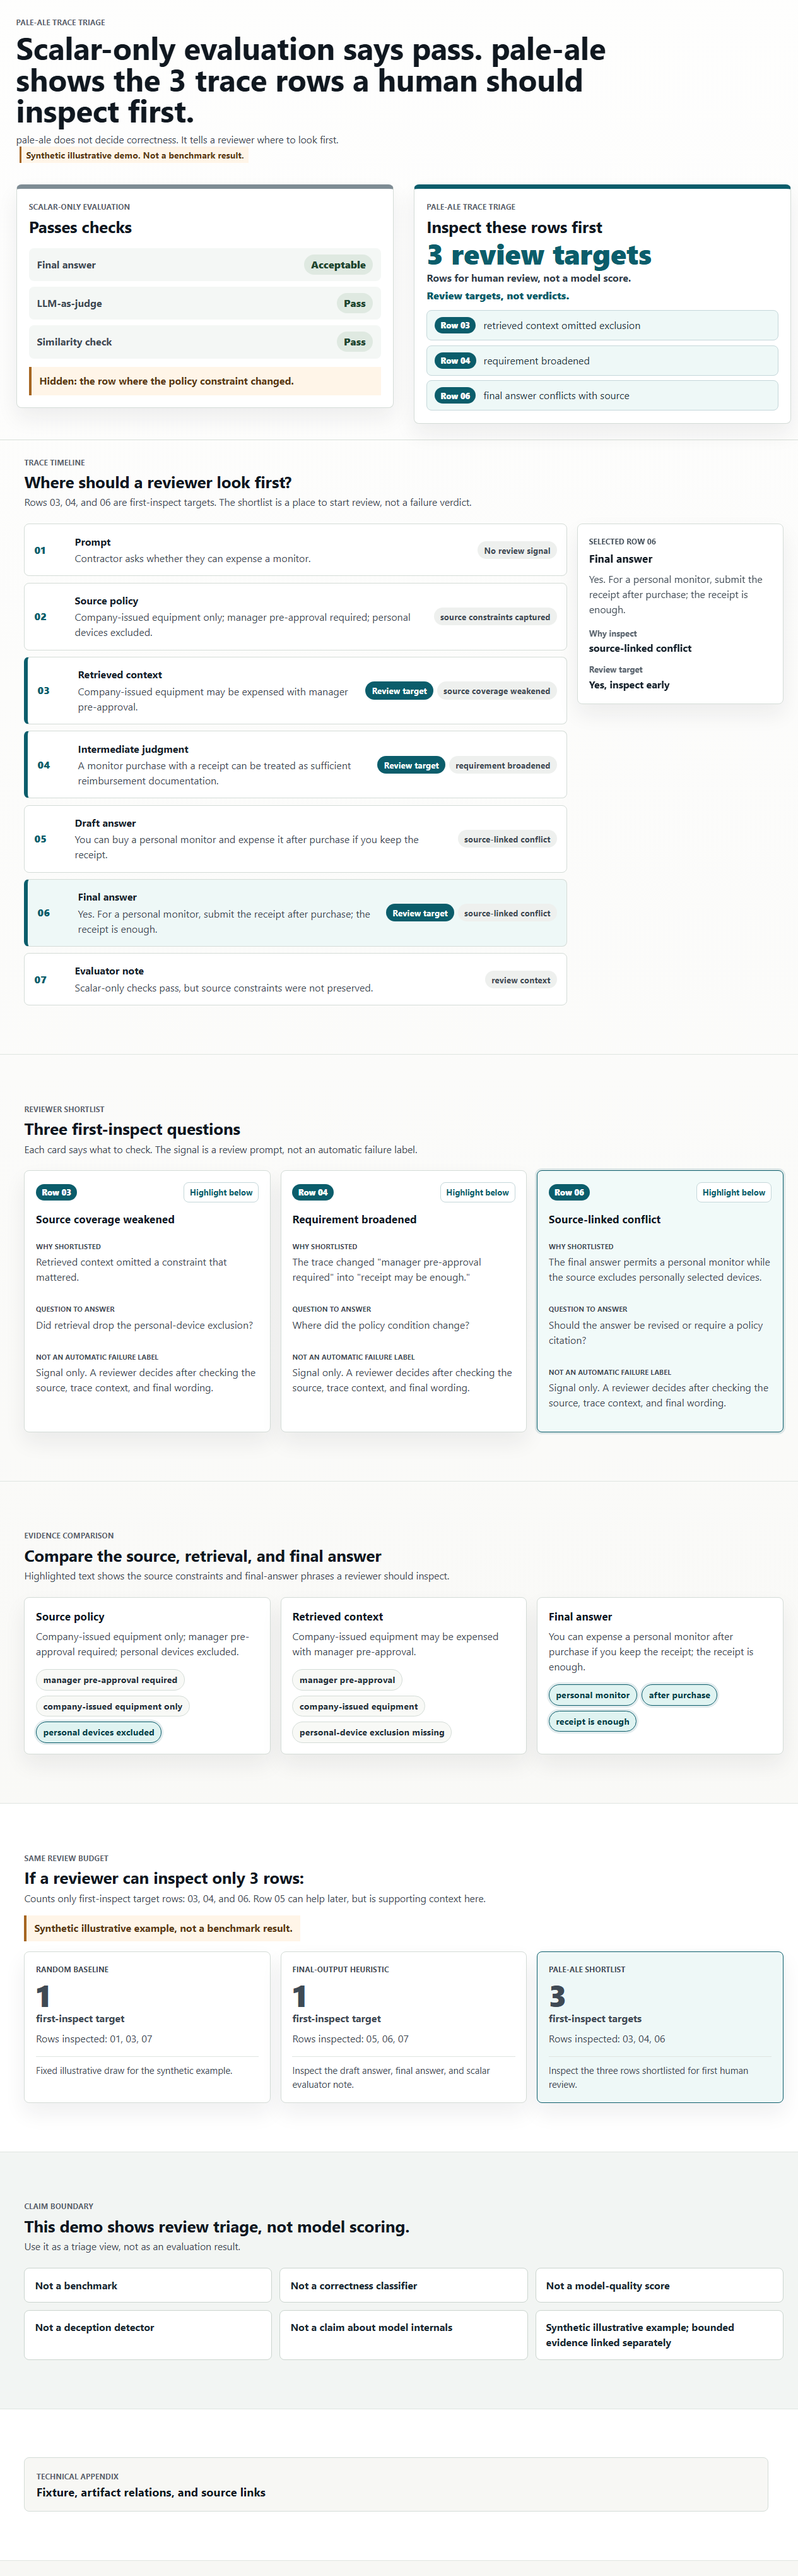
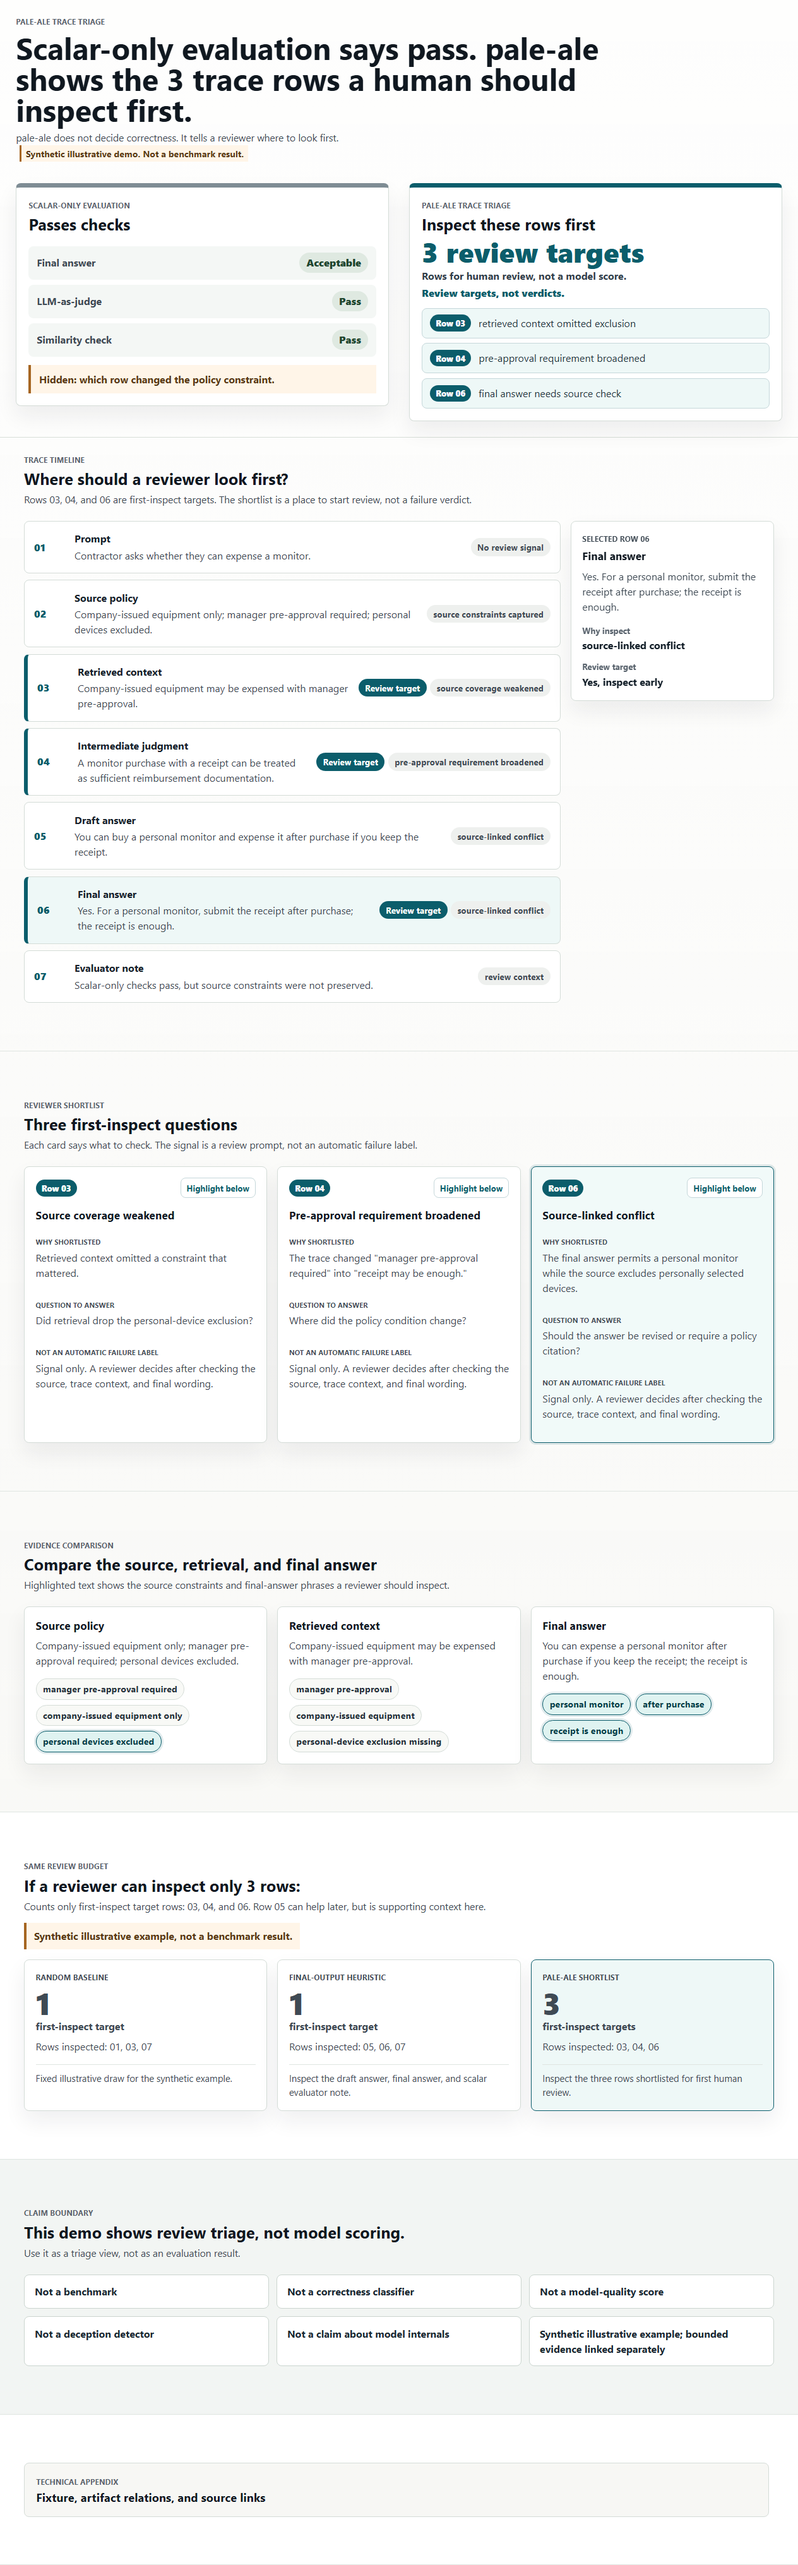
demo: refine trace triage final copy

diff --git a/apps/trace-triage-demo/src/App.tsx b/apps/trace-triage-demo/src/App.tsx
@@ -83,6 +83,7 @@ const artifactRelations = [
 
 const links = [
   ["GitHub repository", "https://github.com/Udonburo/pale-ale"],
+  ["Fixture JSON source", "https://github.com/Udonburo/pale-ale/blob/main/docs/demo/trace-triage/synthetic-trace.json"],
   ["Common validation memo", "https://github.com/Udonburo/pale-ale/blob/main/docs/outreach/common-memo-v0.4.2-validation.md"],
   ["Gate12A frozen technical report", "https://doi.org/10.5281/zenodo.19483162"],
   ["Transport-first telemetry note", "https://doi.org/10.5281/zenodo.19569052"],
@@ -426,6 +427,15 @@ function TechnicalAppendix() {
                     {label}
                   </a>
                 </li>
+              ))}
+            </ul>
+          </div>
+
+          <div>
+            <h3>Claim boundaries</h3>
+            <ul className="link-list">
+              {data.claim_boundaries.map((claim) => (
+                <li key={claim}>{claim}</li>
               ))}
             </ul>
           </div>

diff --git a/docs/demo/trace-triage/storyboard.md b/docs/demo/trace-triage/storyboard.md
@@ -17,7 +17,7 @@ Purpose: show the failure mode and the triage output in the first screen, before
 - Final answer: Acceptable
 - LLM-as-judge: Pass
 - Similarity check: Pass
-- Hidden: the row where the policy constraint changed
+- Hidden: which row changed the policy constraint
 
 ### Right: pale-ale Trace Triage
 
@@ -27,8 +27,8 @@ Purpose: show the failure mode and the triage output in the first screen, before
 - Review targets, not verdicts
 - Inspect first:
   - Row 03 - retrieved context omitted exclusion
-  - Row 04 - requirement broadened
-  - Row 06 - final answer conflicts with source
+  - Row 04 - pre-approval requirement broadened
+  - Row 06 - final answer needs source check
 
 Screen copy:
 
@@ -45,7 +45,7 @@ Hero boundary:
 | 01 | Prompt | Contractor asks whether they can expense a monitor. | None shown. |
 | 02 | Source policy | Company-issued equipment only; manager pre-approval required; personal devices excluded. | Source constraints captured. |
 | 03 | Retrieved context | Preserves company-issued equipment and manager pre-approval, but omits personal-device exclusion. | Source coverage weakened. |
-| 04 | Intermediate judgment | Treats receipt as sufficient. | Requirement broadened. |
+| 04 | Intermediate judgment | Treats receipt as sufficient. | Pre-approval requirement broadened. |
 | 05 | Draft answer | Allows personal monitor after purchase. | Source-linked conflict. |
 | 06 | Final answer | Says receipt is enough. | Source-linked conflict. |
 | 07 | Evaluator note | Scalar-only checks pass, but source constraints were not preserved. | Review context. |
@@ -66,7 +66,7 @@ Retrieved context omitted a constraint that mattered.
 Reviewer question:
 Did retrieval drop the personal-device exclusion?
 
-### Row 04 - Requirement broadened
+### Row 04 - Pre-approval requirement broadened
 
 Why shortlisted:
 The trace changed "manager pre-approval required" into "receipt may be enough."
